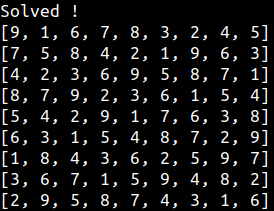
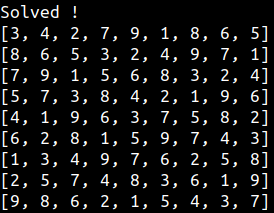
demo sample_img2

diff --git a/main.py b/main.py
@@ -6,7 +6,8 @@ from PIL import Image
 if __name__ == "__main__":
     # pathImage = "./img/sample_img1.png"
     # pathImage = "./img/sample_img4.png"
-    pathImage = "./img/sample_img5.png"
+    # pathImage = "./img/sample_img5.png"
+    pathImage = "./img/sample_img2.png"
 
     H, W = 450, 450
     print("Reading the image: ")

diff --git a/README.md b/README.md
@@ -3,7 +3,7 @@
 
 Input image            |  Solved output
 :-------------------------:|:-------------------------:
-<img src="https://github.com/SimonCao1207/SudokuSolver/blob/master/img/sample_img1.png?raw=True" alt="drawing" width="300"/> |  <img src="https://github.com/SimonCao1207/SudokuSolver/blob/master/img/solved.png?raw=True" alt="drawing" width="300"/>
+<img src="https://github.com/SimonCao1207/SudokuSolver/blob/master/img/sample_img2.png?raw=True" alt="drawing" width="300"/> |  <img src="https://github.com/SimonCao1207/SudokuSolver/blob/master/img/solved.png?raw=True" alt="drawing" width="300"/>
 
 
 
